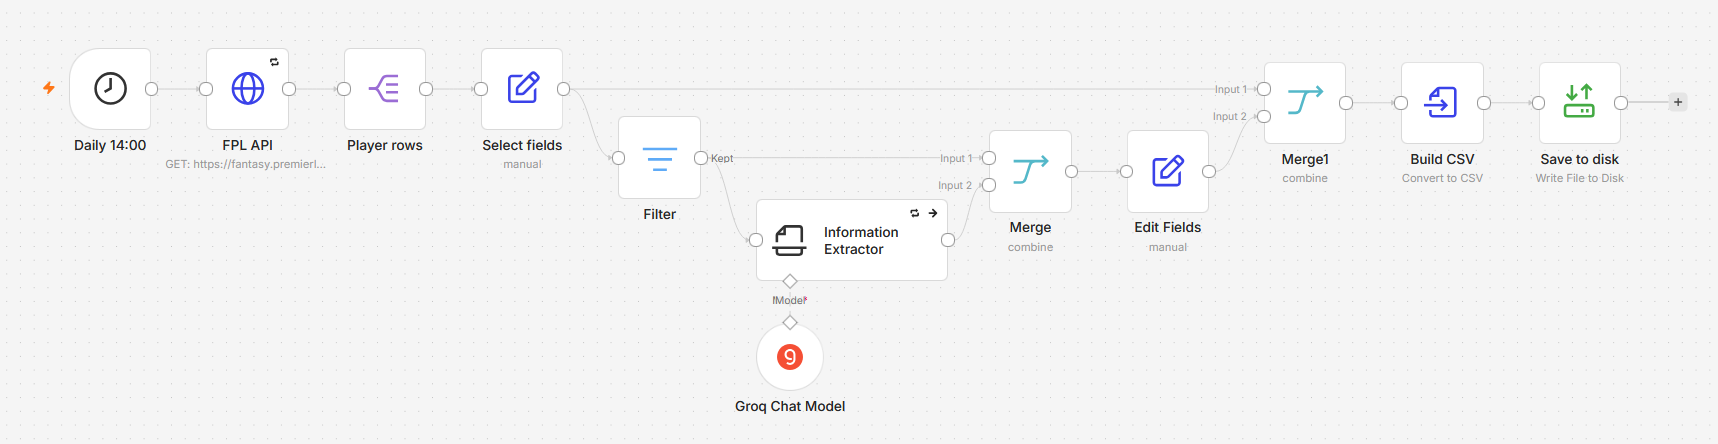
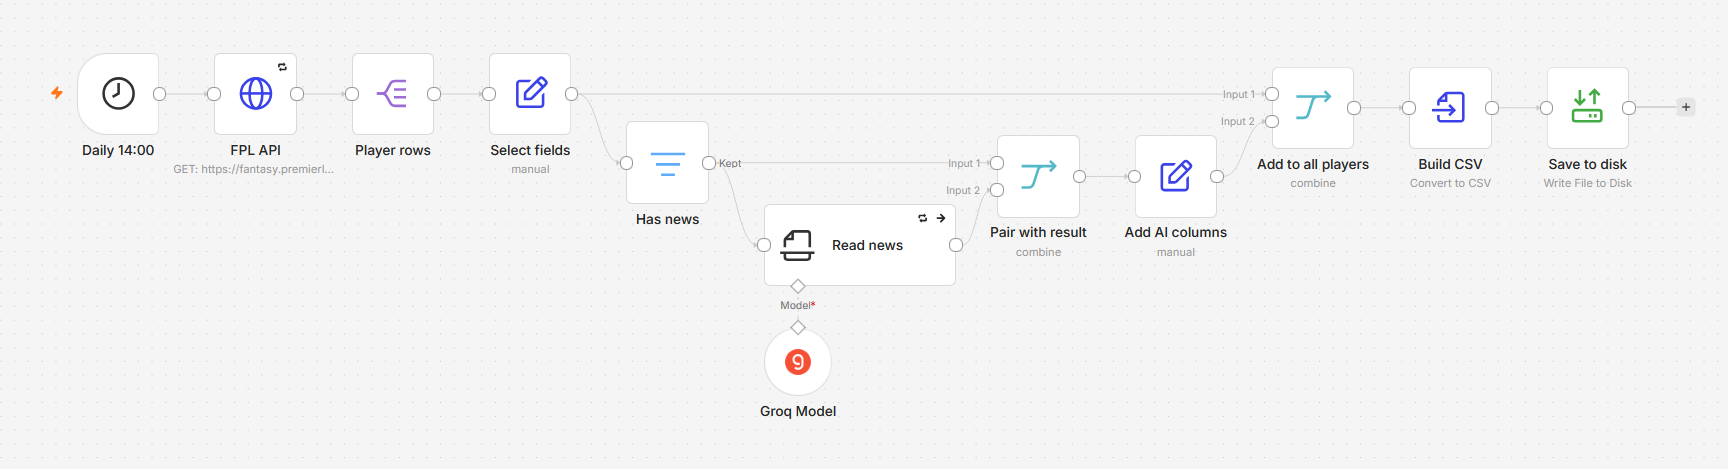
README update

diff --git a/README.md b/README.md
@@ -168,14 +168,14 @@ python -m src.plots.terminal                              # example squad
 The backtest has no injury information, because the FPL data only shows each player's status today. To fill this gap, an [n8n](https://n8n.io) workflow saves the status and news of every player once a day.
 
 <p align="center">
-  <img src="docs/n8n_workflow.png" alt="The n8n workflow for the daily injury snapshot" width="1400">
+  <img src="docs/n8n_workflow.png" alt="The n8n workflow for the daily injury snapshot" width="1300">
 </p>
 
 1. **Schedule.** The workflow starts every day at 14:00 (Berlin time).
 2. **Download.** It gets the player list from the FPL API, and tries again up to 3 times if the website fails.
 3. **Clean.** It splits the list into one row per player, keeps 17 fields (status, news, chance of playing, price, ownership and more) and adds the date.
-4. **Classify.** For the players who have a news text (about 190), an LLM (`gpt-oss-20b` on Groq) returns the category, the injured body part and the expected return date. If a request fails, the row gets `unknown`.
-5.  **Save.** It writes one CSV file per day with 21 columns, about 25 minutes after the start.
+4. **Read the news.** For the players who have a news text (about 190), an LLM (`gpt-oss-20b` on Groq) returns the category, the injured body part and the expected return date. If a request fails, the row gets `unknown`.
+5. **Save.** It writes one CSV file per day with 21 columns, about 25 minutes after the start.
 
 After a few months, these files can give the model what it does not have today: who was injured before each gameweek. The workflow is saved in [`n8n/daily_injury_snapshot.json`](n8n/daily_injury_snapshot.json). In n8n, paste it into a new workflow to use it. The files are saved in `~/.n8n-files` on the computer where n8n runs. After importing the workflow, set your own folder name in the last box.
 
@@ -188,6 +188,8 @@ Every day, the players who have a news text (about 190) are sent to an LLM (`gpt
 - `llm_expected_return`: a date, if the news gives one
 
 Requests are sent one at a time with an 8 second pause to stay inside the free limits, so a run takes about 25 minutes. If a request fails, the row gets `unknown` and the file is still saved. To import the workflow, create your own Groq API credential in n8n first.
+
+In a hand check of 20 random rows, 19 were fully correct. The one error was a wrong year in a return date, which has been fixed in the prompt afterwards.
 
 ## Roadmap
 
